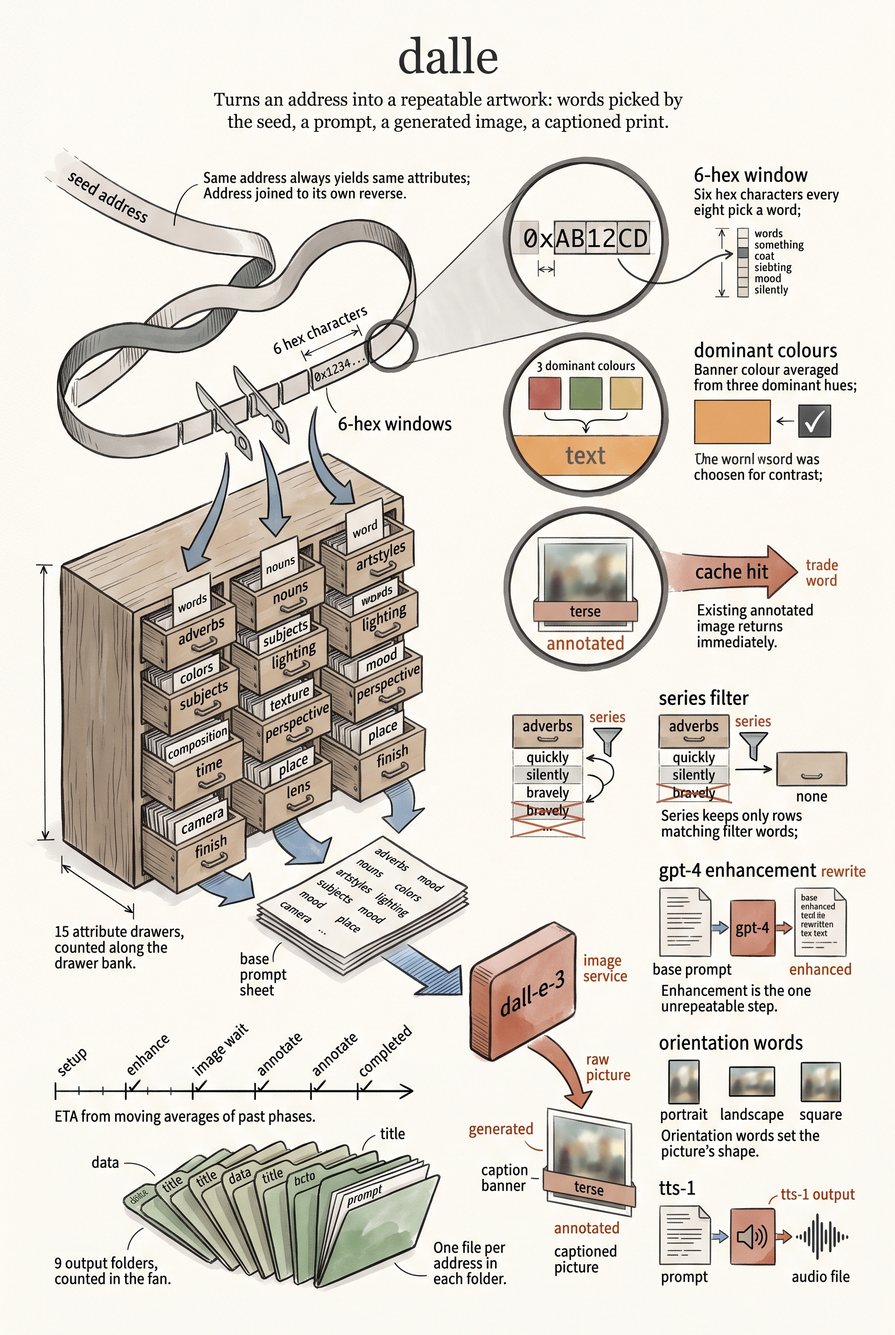
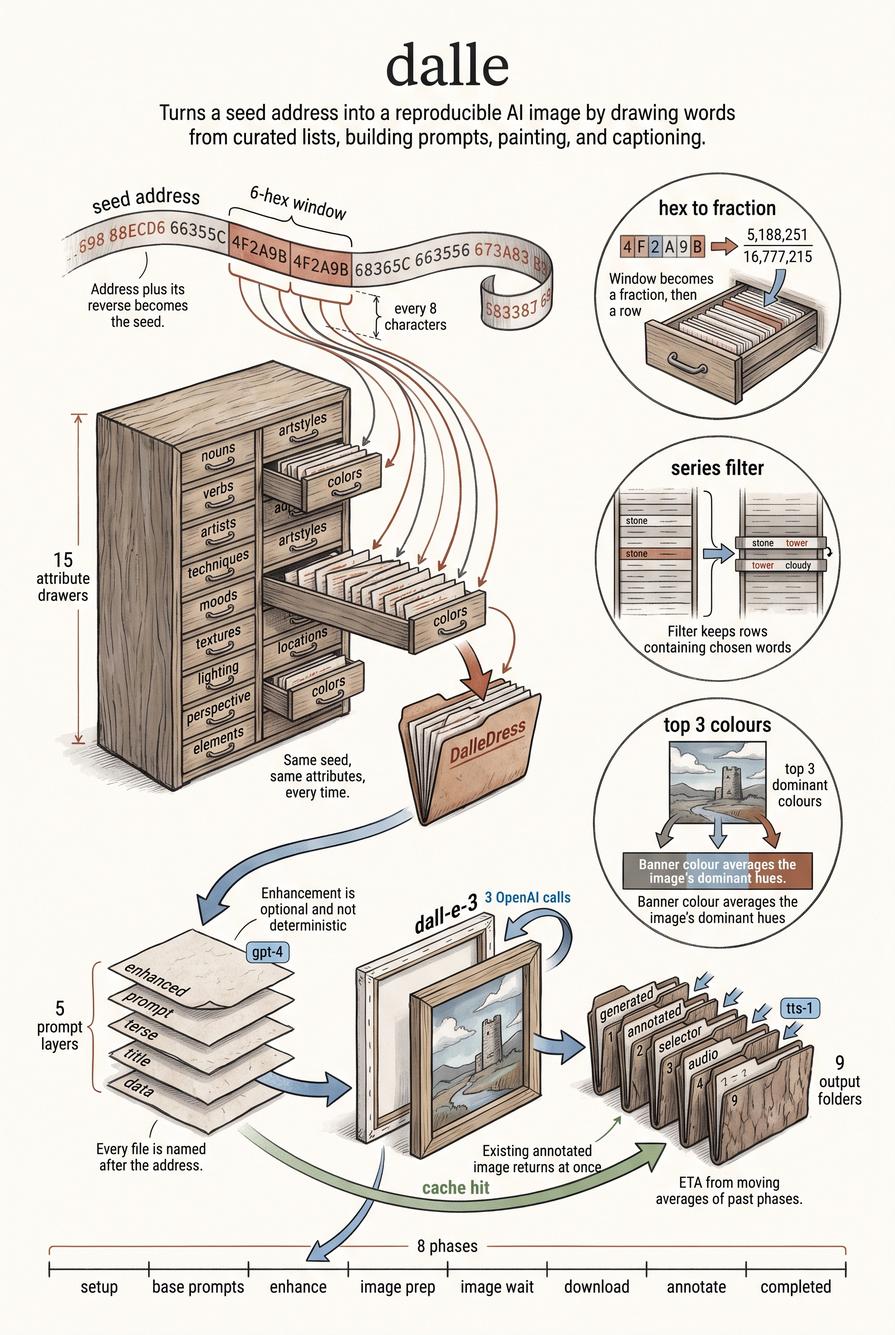
update

diff --git a/pkg/prompt/README.md b/pkg/prompt/README.md
@@ -1,13 +1,14 @@
 # pkg/prompt
 
 This package builds prompts and supplies the enhancement behavior for the project.
-Prompt and literary enhancement call the shared OpenAI client in packages/ai;
-HTTP requests, retries, response decoding, model pricing, and the usage ledger
-come from that library.
+Prompt and literary enhancement call the shared provider clients in packages/ai,
+OpenAI or Anthropic according to the enhancement model's company. HTTP requests,
+retries, response decoding, model pricing, and the usage ledger come from that
+library.
 
 - Prompt templates and generation
 - Attribute handling
-- Shared OpenAI client adapters
+- Shared OpenAI and Anthropic client adapters
 
 The five prompts dalle sends to a model — image, terse, author, technical, and
 the literary enhance instruction — are served from files through the shared
@@ -17,31 +18,50 @@ on every call. The data and title templates stay in Go: neither is sent to a
 model, so both remain plain text/template values.
 
 Both enhancement paths retain author/system context, the original user prompt,
-configured model ID (including dated variants), full endpoint overrides, and the
-configured deadline. Seed and temperature values of zero remain omitted.
-Literary enhancement additionally omits temperature for gpt-5 models and appends
-the enhance instruction, filled from the registry, to the system context.
-Neither path adds a token limit or an additional retry loop; the shared client's
-default single attempt preserves existing behavior.
+configured model ID (including dated variants), and the configured deadline.
+On OpenAI models they also keep full endpoint overrides, and seed and temperature
+values of zero remain omitted. Literary enhancement additionally omits temperature
+for gpt-5 models and appends the enhance instruction, filled from the registry, to
+the system context. Anthropic models have no seed. They run at the configured
+enhancement effort (AiConfiguration.EnhancementEffort) with an 8192-token limit.
+The OpenAI path adds no token limit. Neither path adds an additional retry loop;
+the shared client's default single attempt preserves existing behavior.
 
-TB_DALLE_NO_ENHANCE=1, missing credentials, or empty author context bypass the
-API and accounting. Empty choices or content return the original prompt.
-Provider errors retain the legacy OpenAIAPIError wrapper, code, HTTP status,
-and request ID; errors.As can also recover the shared ai.APIError through it.
-Cancellation and deadline errors remain accessible with errors.Is.
+TB_DALLE_NO_ENHANCE=1, missing credentials for the enhancement model's provider,
+or empty author context bypass the API and accounting. Empty choices or content
+return the original prompt. Provider errors retain the legacy OpenAIAPIError
+wrapper, code, HTTP status, and request ID; errors.As can also recover the shared
+ai.APIError through it. Cancellation and deadline errors remain accessible with
+errors.Is.
 
-The enhancement model must resolve through ai.LookupModel to an OpenAI writing
-model. The per-tool default remains gpt-5.5. Registered dated variants are sent
-unchanged. Unregistered legacy models (including gpt-4-turbo, gpt-3.5-turbo, and gpt-5
-without a matching registry entry), image models, and other providers now fail
-explicitly before an API call; no replacement model or guessed pricing is used.
+The enhancement model must resolve through ai.LookupModel to a writing model
+from OpenAI or Anthropic. By default the models come from the shared registry's
+role table at TB_DALLE_SPEND (pro by default, recorded in AiConfiguration.Spend).
+The compose row, at its effort, enhances prompts, and the image row supplies the
+image model. TB_DALLE_ENHANCEMENT_MODEL and TB_DALLE_IMAGE_MODEL name either model
+outright; gpt-5.5 and gpt-image-2 restore the OpenAI path. An unknown tier leaves
+the model empty, which the first call refuses by name. Registered dated variants
+are sent unchanged. Unregistered legacy models (including gpt-4-turbo,
+gpt-3.5-turbo, and gpt-5 without a matching registry entry), image models, and
+other providers now fail explicitly before an API call. These errors name the
+spend tier, and no replacement model or guessed pricing is used.
+
+AiConfiguration.ProviderKeys lists the credentials the configured models need,
+without repeats: the enhancement model's provider key first, then the image
+model's. A model missing from the registry is an error, so a server can refuse to
+start instead of failing on its first request. AiConfiguration.CheckModels confirms
+before any work starts that the enhancement model is an OpenAI or Anthropic writing
+model. It also confirms that the image model is an OpenAI or Gemini drawing model.
+Each model must be named by its registry ID. When a model fails, the error lists
+the valid choices.
 
 Every completed call with reported usage records one shared ledger row, even
-when empty content causes a fallback. Missing usage, bypasses, and failed calls
-produce no invented token counts. AiConfiguration.Tool can identify an embedding
-tool; otherwise the executable basename identifies it (for example dalleserver
-or dalledress). AiConfiguration.RequestID forwards caller correlation.
-A ledger write failure is logged and does not discard a successful enhancement.
+when empty content causes a fallback; Anthropic calls always report usage.
+Missing usage, bypasses, and failed calls produce no invented token counts.
+AiConfiguration.Tool can identify an embedding tool; otherwise the executable
+basename identifies it (for example dalleserver or dalledress).
+AiConfiguration.RequestID forwards caller correlation. A ledger write failure is
+logged and does not discard a successful enhancement.
 
 Image generation and the server's separate enhancement client are subsequent
 migrations. No build configuration changes are required by this change.

diff --git a/pkg/image/README.md b/pkg/image/README.md
@@ -1,21 +1,25 @@
 # Image generation
 
-The dalle image workflow uses packages/ai's DallE.GenerateImageResult for API
-requests, retries, errors, response decoding, and downloading bytes. This package
-keeps prompt construction, per-tool image settings, file paths, annotation, and
+The dalle image workflow uses packages/ai's DallE.GenerateImageResult for OpenAI
+API requests, retries, errors, response decoding, and downloading bytes, and
+packages/ai's Gemini.GenerateImage for Gemini image models. This package keeps
+prompt construction, per-tool image settings, file paths, annotation, and
 progress updates. RequestImage and RequestImageWithOptions retain their signatures.
 ImageOptions.Context optionally supplies cancellation.
 
-The default remains gpt-image-2. Canonical OpenAI image models in the shared
-registry are accepted; unsupported legacy models fail explicitly before a paid
-request. Currently dall-e-2, dall-e-3, gpt-image-1.5, gpt-image-1-mini, and dated
+The default remains gpt-image-2. Canonical OpenAI or Gemini image models in the
+shared registry are accepted; unsupported legacy models fail explicitly before a
+paid request. Currently dall-e-2, dall-e-3, gpt-image-1.5, gpt-image-1-mini, and dated
 variants without their own registry entries are unsupported. A substring match
 to a different model is insufficient for accurate pricing. No model substitution
-or private pricing table is used.
+or private pricing table is used. The API key is looked up through creds using
+the key name for the image model's provider.
 
 Existing model-specific size/quality and final prompt rules remain, including the
-extra visual directive for gpt-image-1. Full ImageURL overrides and request IDs
-pass to the shared client. URL data retains precedence when a response includes
+extra visual directive for gpt-image-1. Gemini models receive an aspect ratio
+(3:2, 2:3, or 1:1) instead of a pixel size, plus the registry's image resolution.
+Full ImageURL overrides pass to the shared OpenAI client, and request IDs pass
+with the image options. URL data retains precedence when a response includes
 both URL and base64. The generation deadline uses ImageTimeout; a non-positive
 ImageTimeout fails before any request. URL downloads retain the previous absence
 of a separate timeout, while honoring a supplied parent context. The default
@@ -23,15 +27,18 @@ library single attempt avoids introducing retries.
 
 The shared response callback stores ImageURL and DownloadMode before downloading,
 and transitions image_wait to image_download when a download mode is reported.
-Generated bytes are written to the existing .png path, followed by optional
-annotation and the existing metadata updates. When TB_CMD_LINE is true, the
-annotated image is opened locally, and a failure to open is logged only. Missing
-credentials still create an empty placeholder in generated or annotated, according
-to the annotation option, without calling the API.
+Generated bytes are written to the existing .png path; JPEG data (such as
+Gemini's) is re-encoded to PNG rather than stored mislabeled. Writing is followed
+by optional annotation and the existing metadata updates. When TB_CMD_LINE is
+true, the annotated image is opened locally, and a failure to open is logged only.
+Missing credentials still create an empty placeholder in generated or annotated,
+according to the annotation option, without calling the API.
 
 Each parsed successful API response records one image ledger row through
 ai.RecordImageCall, using AiConfiguration.Tool or the executable basename.
-Reported usage is per-call; LastUsage is never read. Missing usage produces blank
+Reported usage is per-call. For OpenAI, LastUsage is never read; for Gemini, a
+row is recorded from the client's LastUsage whenever it is reported, even if
+generation then returns an error. Missing usage produces blank
 image token and cost fields, while explicitly reported zero produces numeric
 zero. An API response remains accounted for if decoding, downloading, writing,
 or annotation subsequently fails. Provider failures and credential bypasses do

diff --git a/README.md b/README.md
@@ -109,7 +109,7 @@ fmt.Println(result)
 ```go
 import "github.com/TrueBlocks/trueblocks-dalle/v6/pkg/annotate"
 
-outputPath, err := annotate.Annotate("Hello World", "generated/input.png", "bottom", 0.1)
+outputPath, err := annotate.Annotate("Hello World", "output/demo/generated/input.png", "bottom", 0.1)
 fmt.Println("Annotated image saved to:", outputPath)
 ```
 
